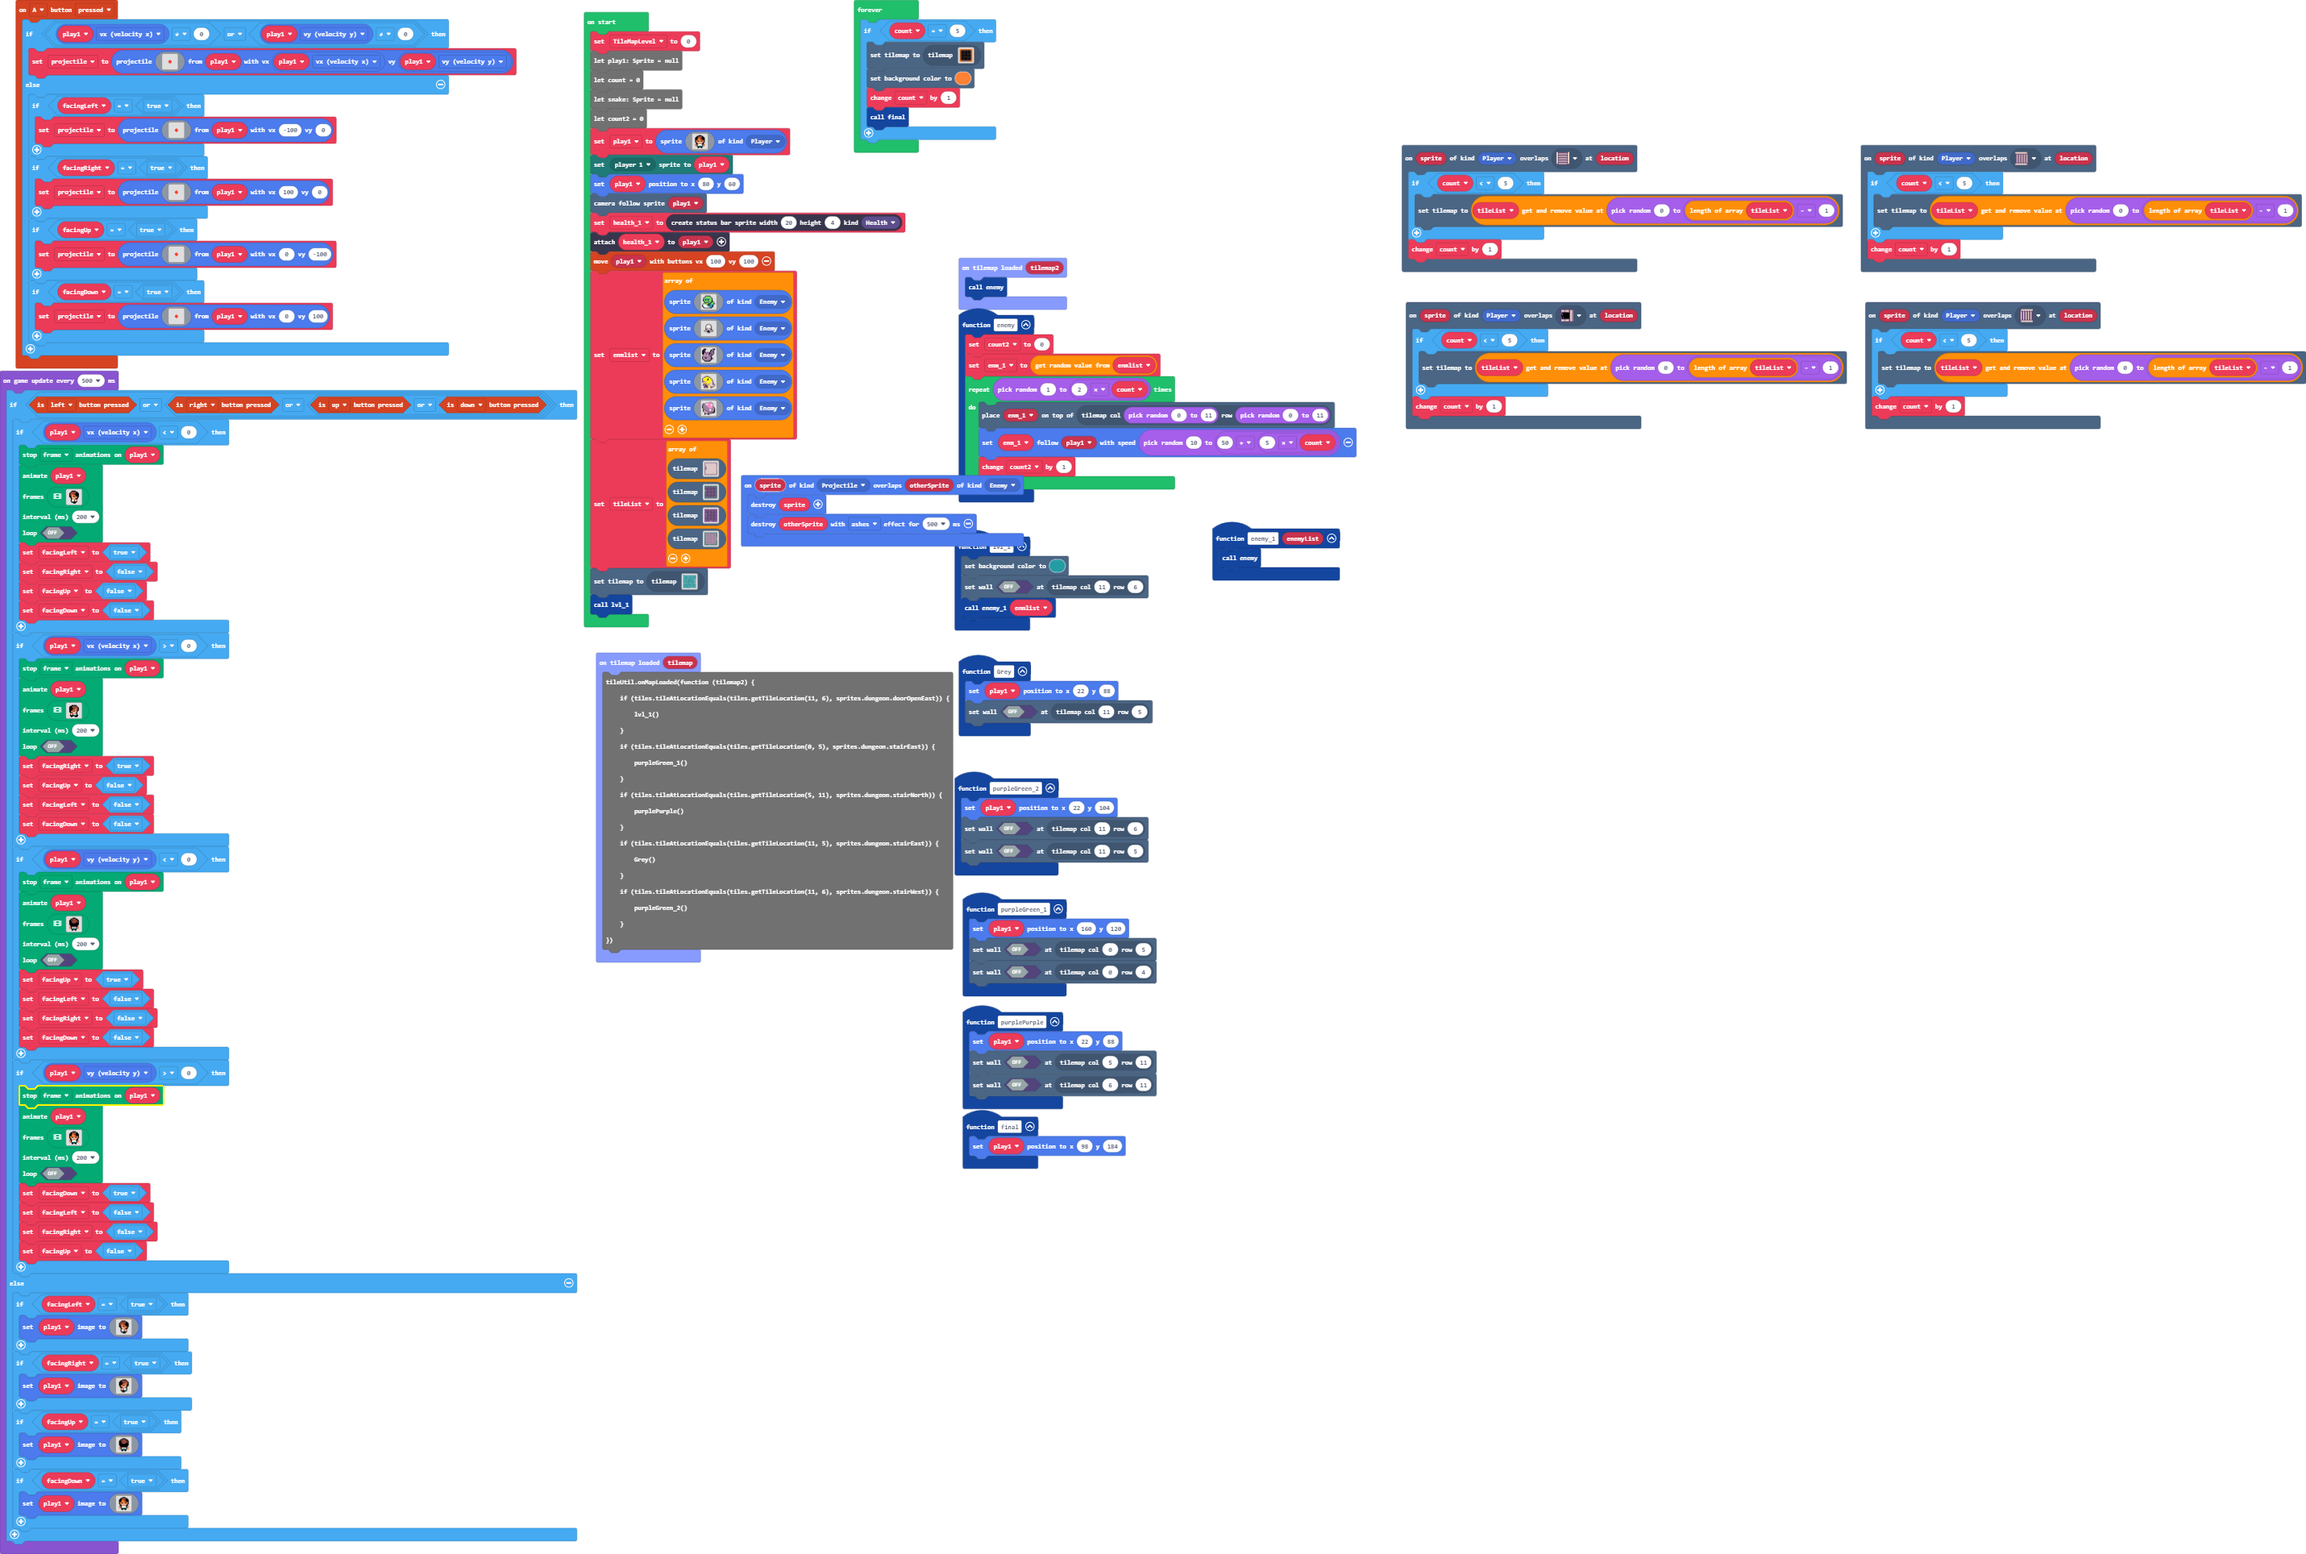
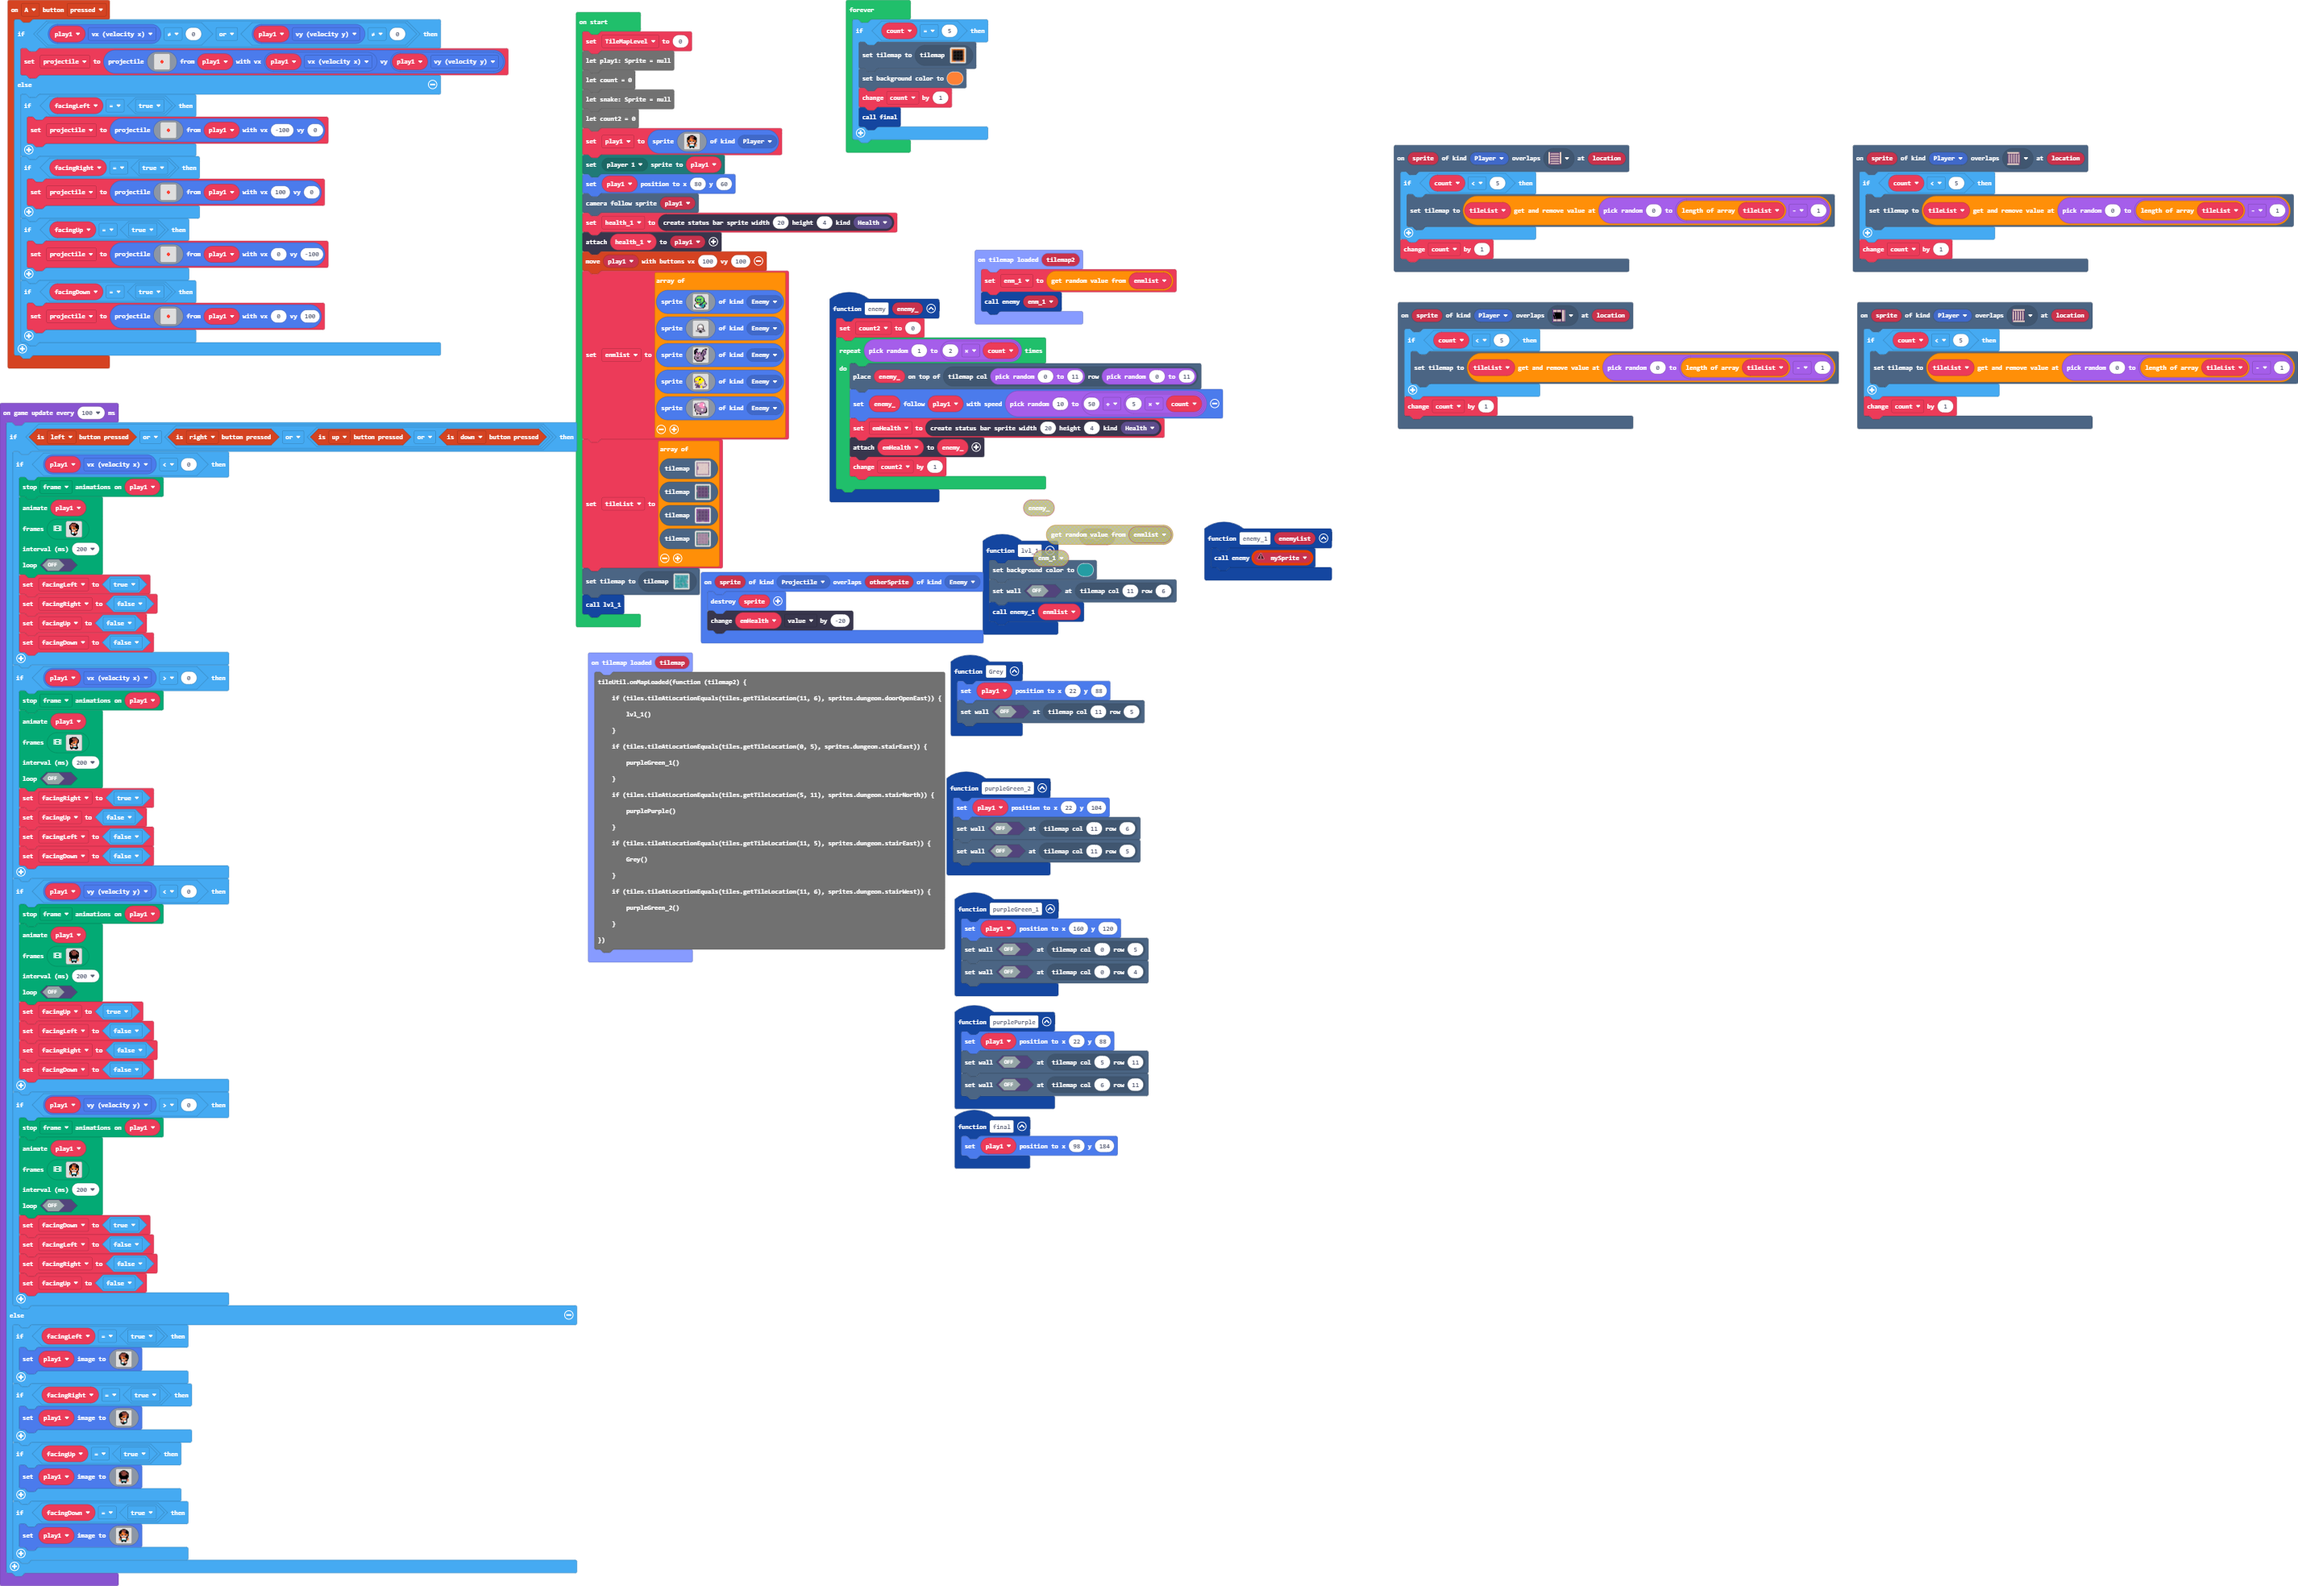
started to work on enemies

Changed region(s): [[0.0, 0.0, 1.0, 0.9959], [0.0, 0.9959, 0.0312, 1.0]]

diff --git a/main.ts b/main.ts
@@ -145,7 +145,8 @@ function lvl_1 () {
     enemy_1(enmlist)
 }
 function enemy_1 (enemyList: any[]) {
-    enemy()
+    let mySprite: Sprite = null
+    enemy(mySprite)
 }
 scene.onOverlapTile(SpriteKind.Player, sprites.dungeon.stairEast, function (sprite, location) {
     if (count < 5) {
@@ -153,12 +154,13 @@ scene.onOverlapTile(SpriteKind.Player, sprites.dungeon.stairEast, function (spri
     }
     count += 1
 })
-function enemy () {
+function enemy (enemy_: Sprite) {
     count2 = 0
-    enm_1 = enmlist._pickRandom()
     for (let index = 0; index < randint(1, 2 * count); index++) {
-        tiles.placeOnTile(enm_1, tiles.getTileLocation(randint(0, 11), randint(0, 11)))
-        enm_1.follow(play1, randint(10, 50 + 5 * count))
+        tiles.placeOnTile(enemy_, tiles.getTileLocation(randint(0, 11), randint(0, 11)))
+        enemy_.follow(play1, randint(10, 50 + 5 * count))
+        emHealth = statusbars.create(20, 4, StatusBarKind.Health)
+        emHealth.attachToSprite(enemy_)
         count2 += 1
     }
 }
@@ -187,13 +189,15 @@ function purplePurple () {
     tiles.setWallAt(tiles.getTileLocation(6, 11), false)
 }
 tileUtil.onMapLoaded(function (tilemap2) {
-    enemy()
+    enm_1 = enmlist._pickRandom()
+    enemy(enm_1)
 })
 sprites.onOverlap(SpriteKind.Projectile, SpriteKind.Enemy, function (sprite, otherSprite) {
     sprites.destroy(sprite)
-    sprites.destroy(otherSprite, effects.ashes, 500)
+    emHealth.value += -20
 })
 let enm_1: Sprite = null
+let emHealth: StatusBarSprite = null
 let facingDown = false
 let facingUp = false
 let facingRight = false
@@ -253,7 +257,7 @@ forever(function () {
         final()
     }
 })
-game.onUpdateInterval(500, function () {
+game.onUpdateInterval(100, function () {
     if (controller.left.isPressed() || (controller.right.isPressed() || (controller.up.isPressed() || controller.down.isPressed()))) {
         if (play1.vx < 0) {
             animation.stopAnimation(animation.AnimationTypes.ImageAnimation, play1)
